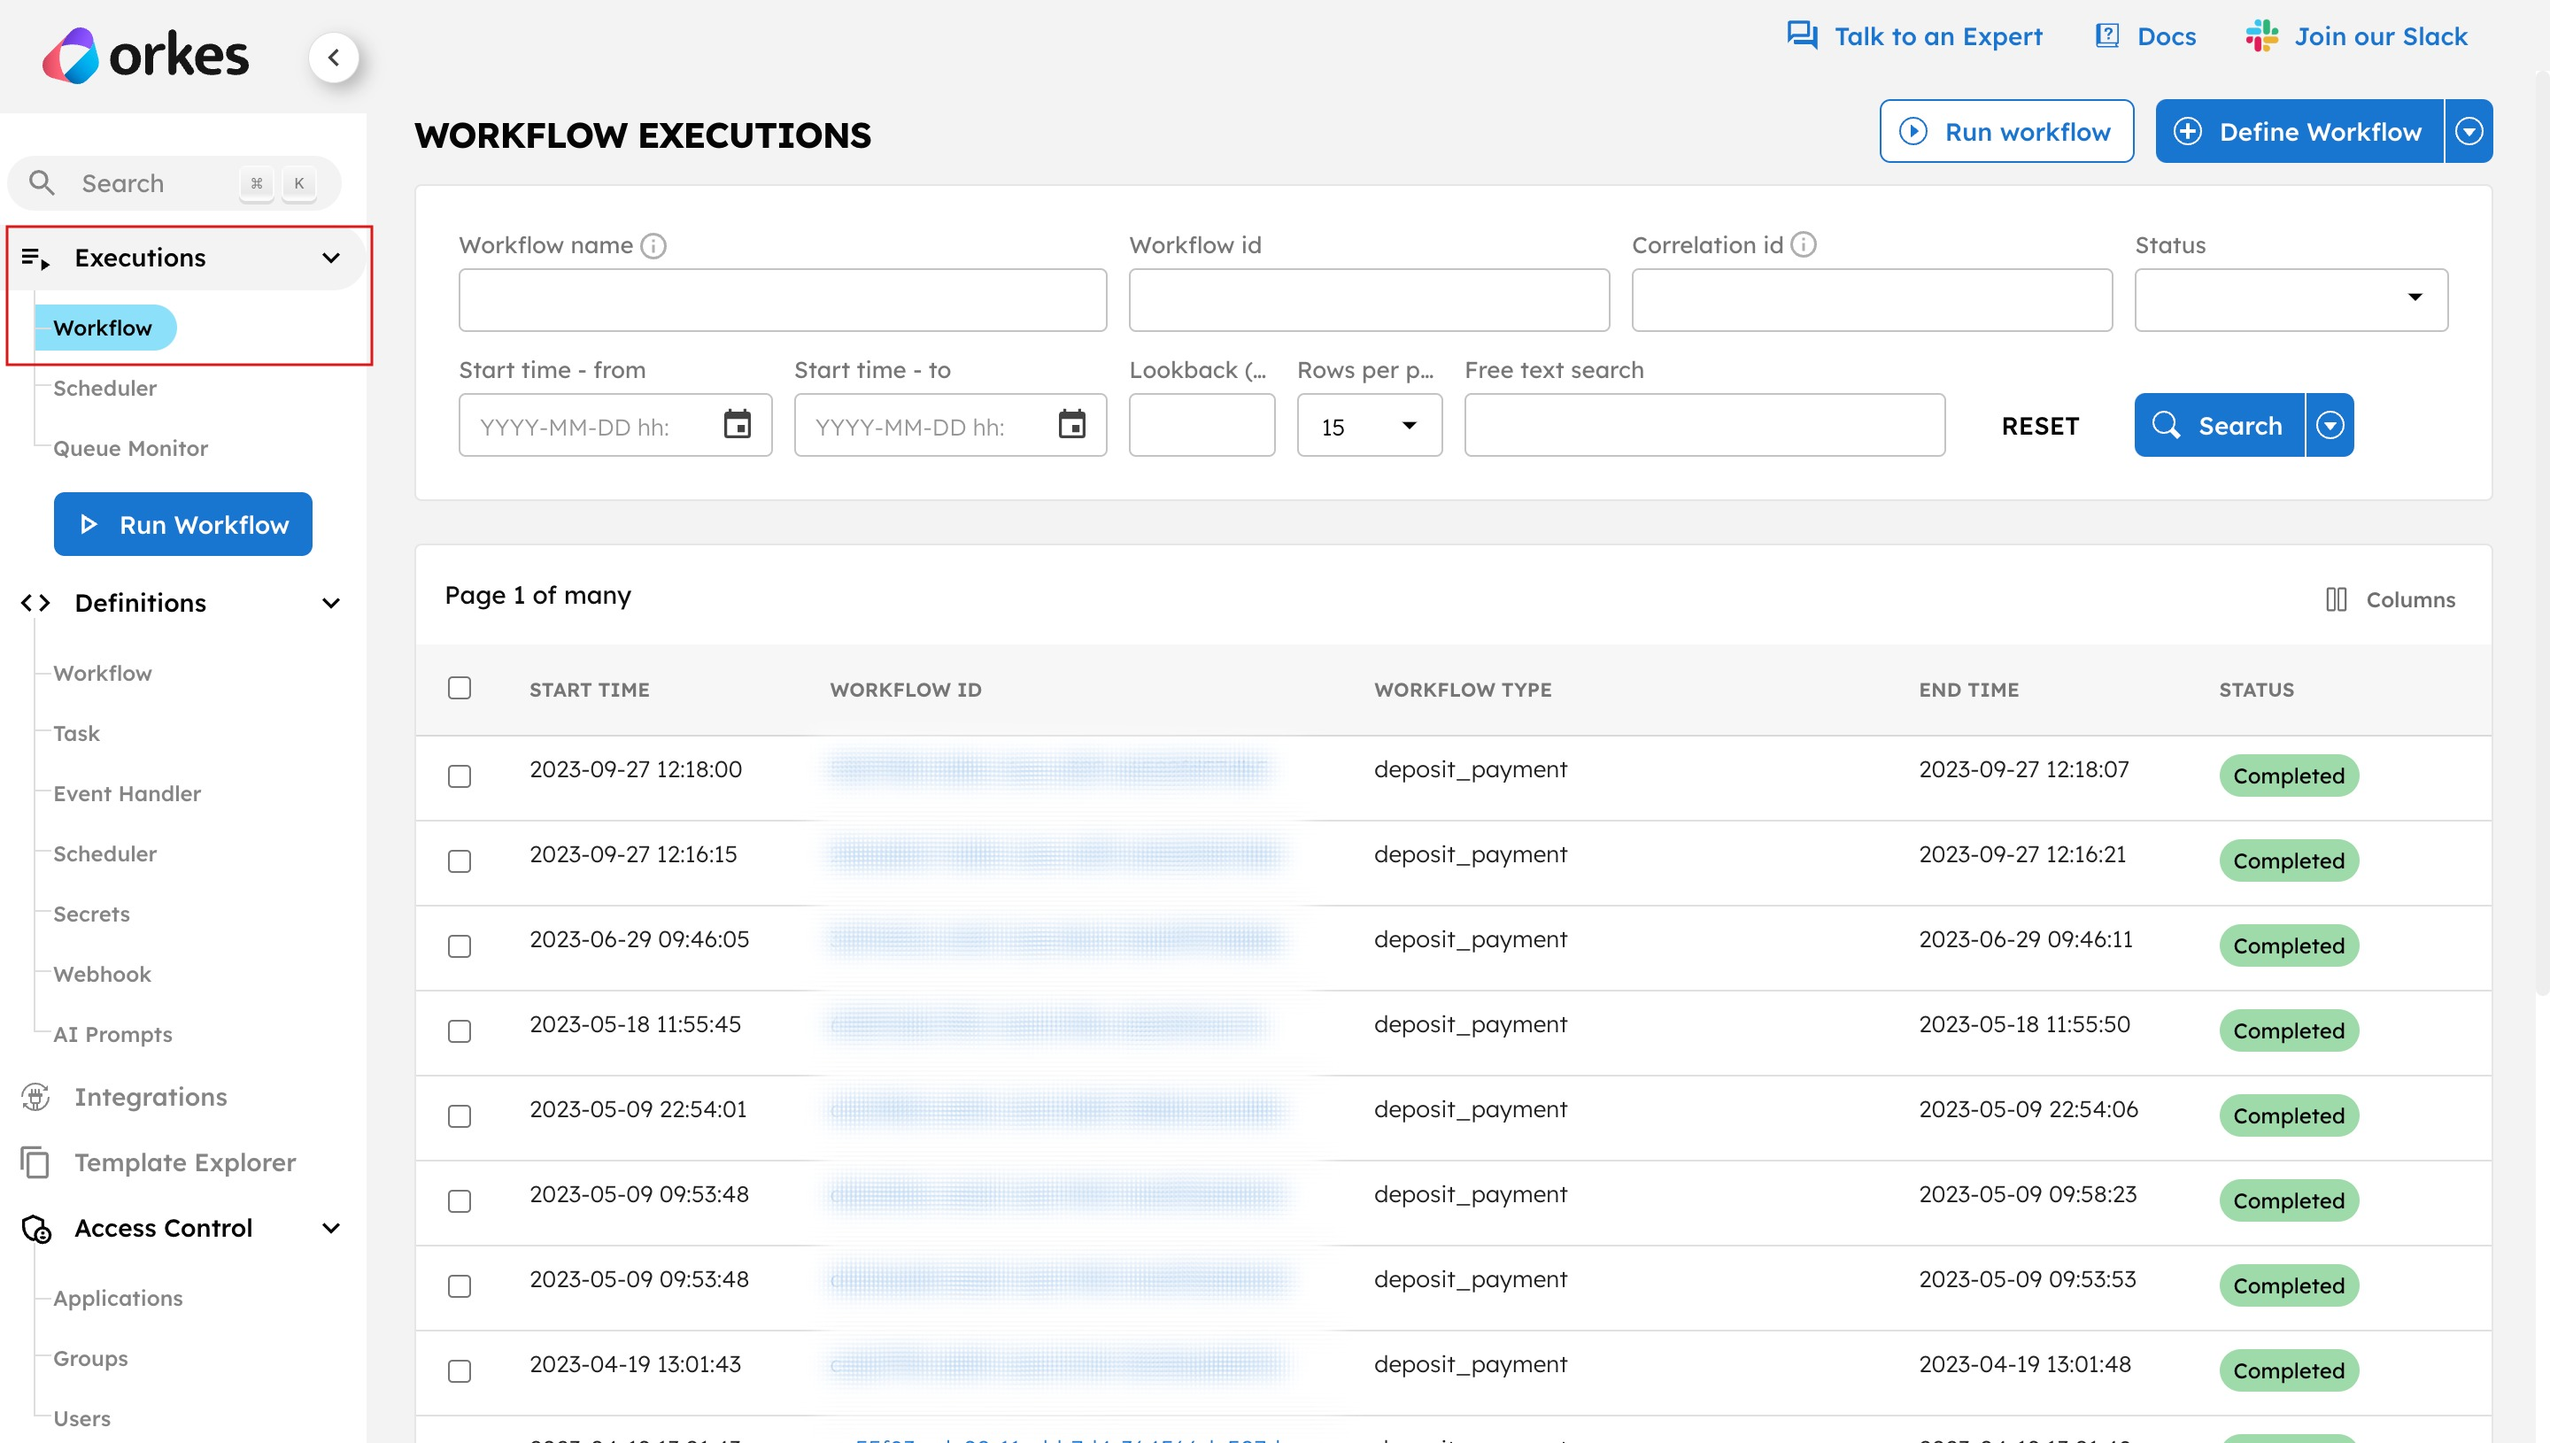
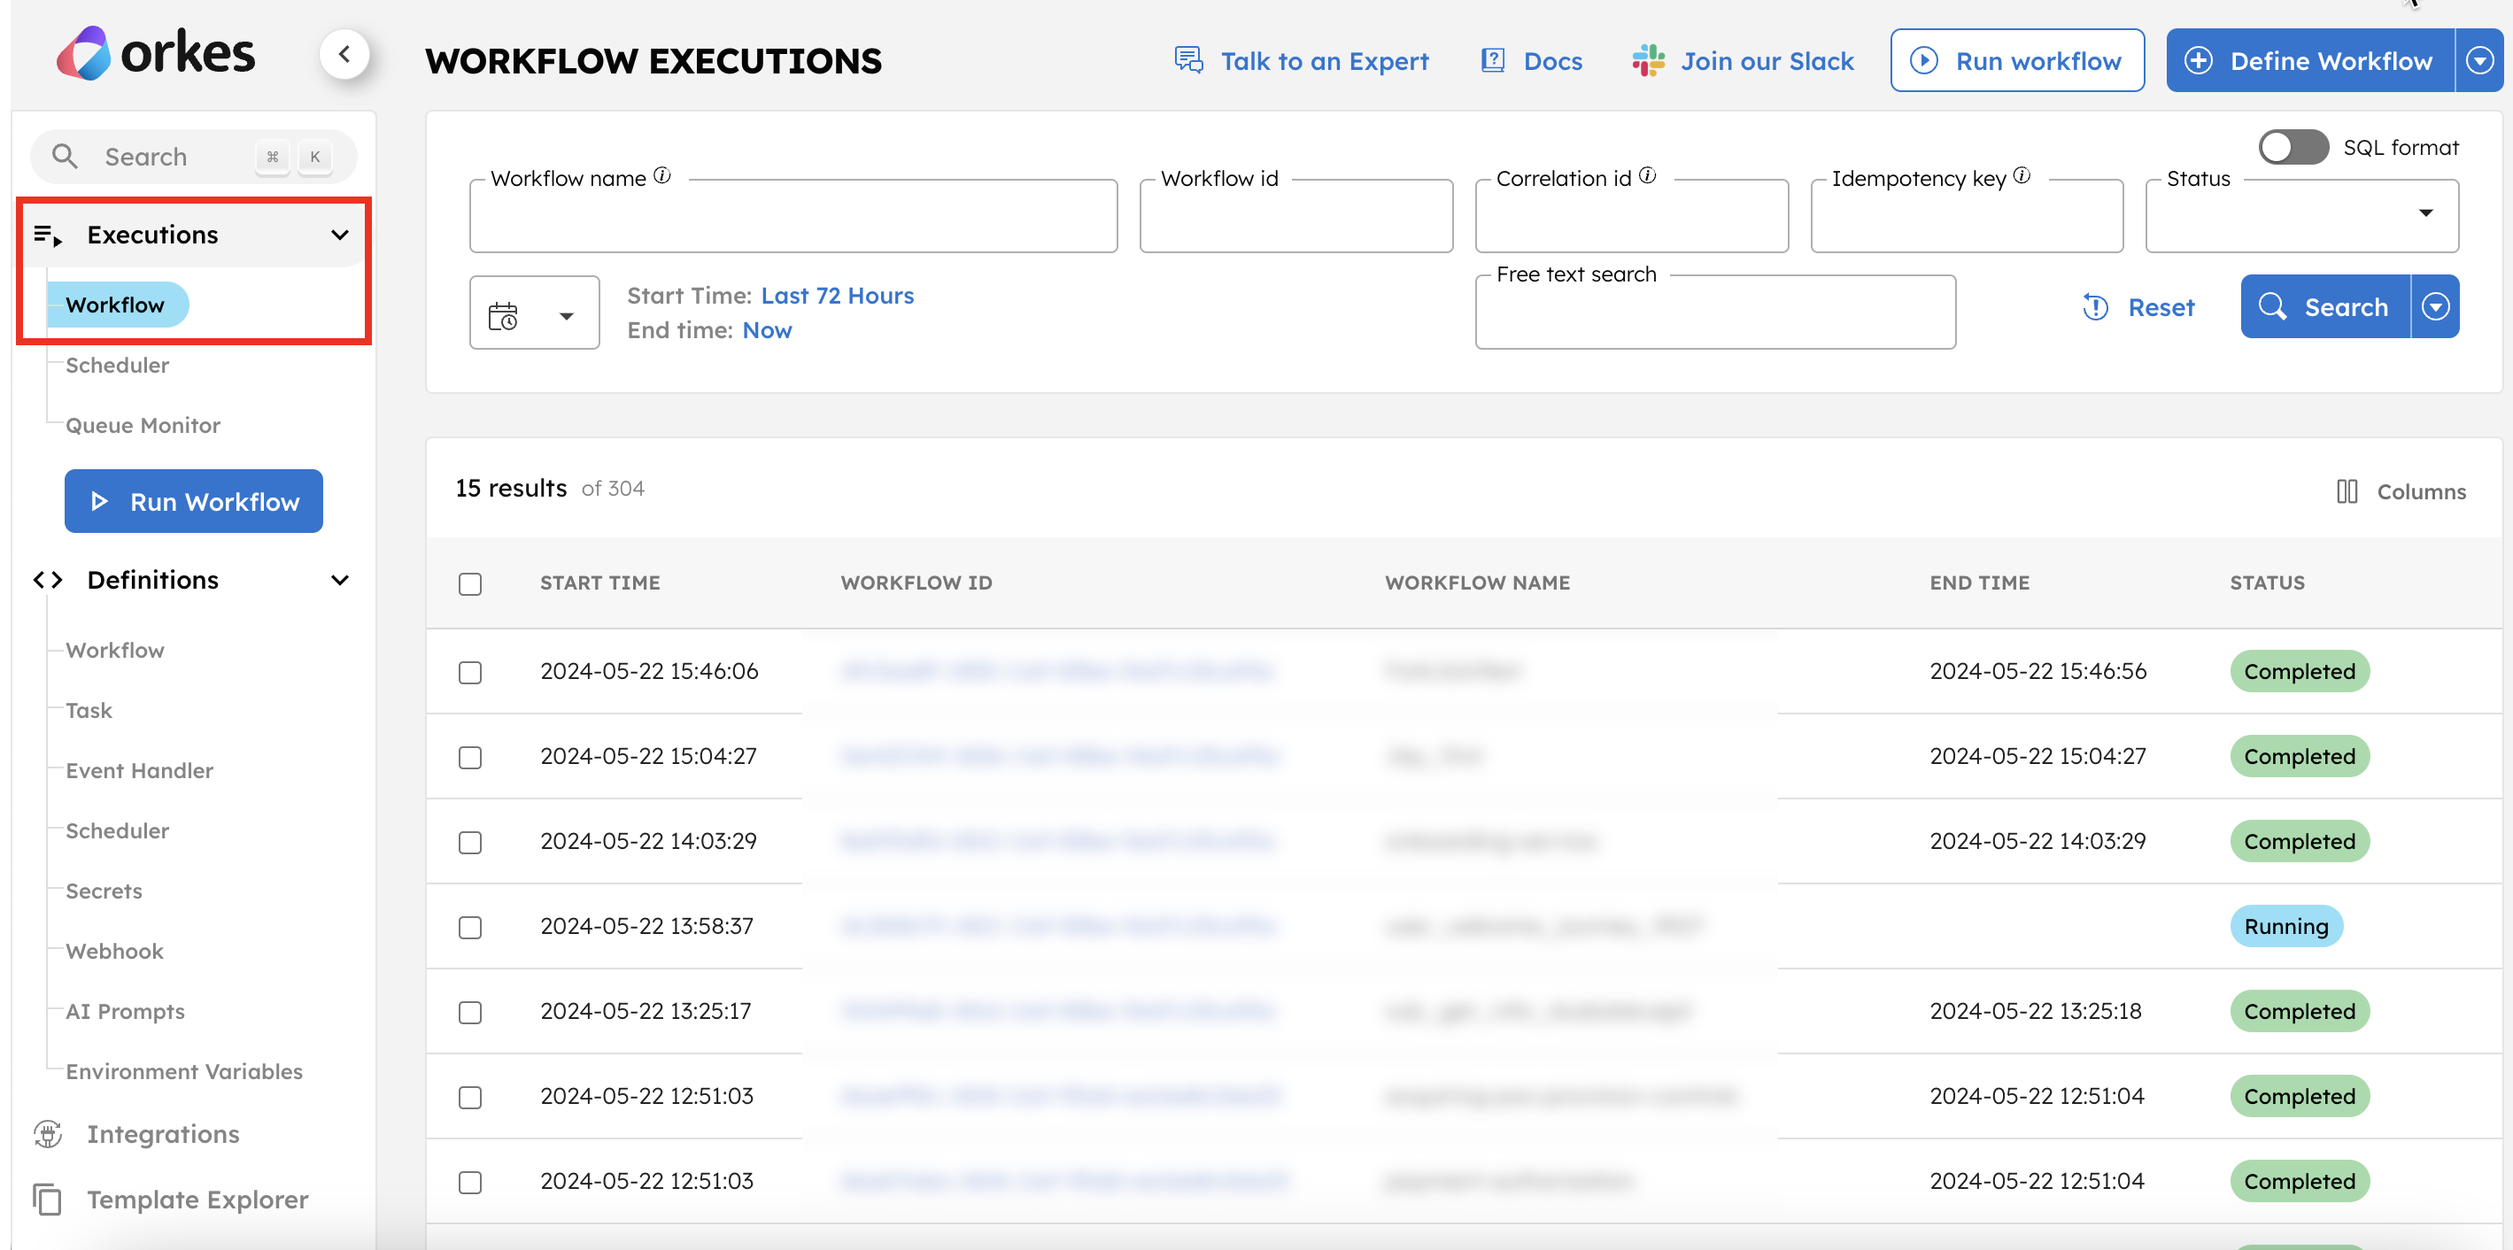
SC: 10973

diff --git a/docs/developer-guides/debugging-workflows.md b/docs/developer-guides/debugging-workflows.md
@@ -5,18 +5,18 @@ import Install from '@site/src/components/install.mdx';
 
 # Debugging Workflows
 
-Orkes Conductor provides a visual representation of workflows that aids in quickly troubleshooting issues. Conductor UI provides us with the ability to look into workflow executions which helps in quickly spotting and resolving issues.
+Orkes Conductor provides a visual representation of workflows that aids in quickly troubleshooting issues. Conductor UI provides you with the ability to look into workflow executions, which helps quickly spot and resolve issues.
 
 ## Searching/Viewing Workflow Executions
 
-All recent workflow executions are listed on the **Executions > Workflow** page. This view is filtered by the permissions of the user by default, i.e., users can view the execution of only the permitted workflows.
+All recent workflow executions are listed on the **Executions > Workflow** page. This view is filtered by the user's permissions by default, i.e., users can view the execution of only the permitted workflows.
 
 <p align="center"><img src="/content/img/workflow-executions.png" alt="Workflow Executions page" width="90%"
                        height="auto"/></p>
 
-Data on this page can be filtered by searching through workflow name, workflow ID, correlation ID, status, time period, and past days’ executions. Click on the required execution to view the individual execution of a workflow.
+The workflow execution data can be filtered by searching through workflow name, workflow ID, correlation ID, idempotency key, status, time period, and free text search. Click on the required execution to view the individual execution of a workflow.
 
-In addition, you can also view the workflow execution as code directly from the UI. For this, click on the arrow in the Search button, and choose “**Show as code**”.
+In addition, you can view the workflow execution as code directly from the UI. To do this, click the arrow in the Search button and choose “**Show as code”**.
 
 <p align="center"><img src="/content/img/show-as-code-in-workflow-search.png" alt="Show as code option in Workflow Search" width="90%"
                        height="auto"/></p>
@@ -27,7 +27,7 @@ This would show the workflow search data in different codes. Currently, you can 
                        height="auto"/></p>
 
 :::note
-You can also search for workflow names by inputting partial values with wildcards (*) support. For example, if you want to search for workflow names containing “test”, then search for **test***, and it will display all the workflow definitions with **‘test’** in their name.
+You can also search for workflow names by inputting partial values with wildcards (*) support. For example, if you want to search for workflow names containing “test”, then search for **test***, which will display all the workflow definitions with **‘test’** in their name.
 <p align="center"><img src="/content/img/workflow-partial-search.png" alt="Workflow search with wildcard support"
                        width="90%" height="auto"/></p>
 :::
@@ -41,7 +41,7 @@ The page consists of the following sub-tabs:
 
 * **Diagram** - Shows the visual representation of the workflow. If the workflow isn’t completed/failed, the diagram indicates the same.
 * **Task List** - Includes the details of the tasks within the workflow.
-* **Timeline** - A timeline showing the time taken by different tasks for execution.
+* **Timeline** -  A timeline showing the time taken by different tasks for execution. You can also zoom around the task timeline for more accuracy.
 * **Summary** - Includes the workflow details such as workflow ID, status, version, start/end time, and duration.
 * **Workflow Input/Output** - Shows the list of the inputs and outputs of the workflow.
 * **JSON** - Include the complete JSON of the workflow.
@@ -65,10 +65,10 @@ Clicking on the failed task gives the failure details. The following fields are 
 | -- | -- |
 | Summary > Reason for Incompletion | This field displays the reason for task incompletion. It can capture details such as exceptions thrown by the worker, task-related exceptions such as failed to invoke HTTP endpoints, etc. |
 | Summary > Worker | This field shows the worker instance that polled the task. It can help dig logs if not captured by the Conductor. |
-| Input | We can verify if the task inputs were computed and provided correctly. |
-| Output | We can verify the task’s output details here. If the task’s output is supplied as the next task’s input, such details can be verified from here. | 
-| Logs | We can get the logs from this tab if the task supplies logs. |
-| Attempt | If your task was retried, we can see all the attempts and corresponding details here. |
+| Input | You can verify if the task inputs were computed and provided correctly. |
+| Output | You can verify the task’s output details here. If the task’s output is supplied as the next task’s input, such details can be verified from here. | 
+| Logs | You can get the logs from this tab if the task supplies logs. |
+| Attempt | If your task was retried, you can see all the attempts and corresponding details here. |
 
 Here is a screen grab of the fields referred above.
 
@@ -76,18 +76,18 @@ Here is a screen grab of the fields referred above.
 
 ## Recovering From Failures
 
-Once the issues are resolved for the workflow execution failure, we might want to retry the failed workflows. The **Actions** button towards the top-right corner of the execution page provides the following options:
+Once the issues are resolved for the workflow execution failure, you might want to retry the failed workflows. The **Actions** button towards the top-right corner of the execution page provides the following options:
 
 <p align="center"><img src="/content/img/workflow-recovery.png" alt="Workflow Recovery Options" width="80%" height="auto"></img></p>
 
 | Action | Description                                                                                                                                                                                                                                                     |
 | ------ |-----------------------------------------------------------------------------------------------------------------------------------------------------------------------------------------------------------------------------------------------------------------|
 | Terminate | Terminates the workflow and changes the workflow status to **TERMINATED**.                                                                                                                                                                                      |
-| Restart with Current Definitions | Restart the workflow from the beginning using the same version of the workflow definition that originally ran this execution. This is useful if the workflow definition has changed and we want to retain this instance in the original version.                |
-| Restart with Latest Definitions | Restart this workflow from the beginning using the latest definition of the workflow. If we’ve made changes to the definition, we could use this option to re-run the flow with the latest version.                                                             |
+| Restart with Current Definitions | Restart the workflow from the beginning using the same version of the workflow definition that originally ran this execution. This is useful if the workflow definition has changed and you want to retain this instance in the original version.                |
+| Restart with Latest Definitions | Restart this workflow from the beginning using the latest definition of the workflow. If you've made changes to the definition, you could use this option to re-run the flow with the latest version.                                                             |
 | Retry - From failed task | Retries the workflow from the failed task.                                                                                                                                                                                                                      |
-| Re-run Workflow | Clicking on this takes us to the **Run Workflow** page, where we can rerun the workflow. While running, we can change the workflow input parameters and task to domain mapping.                     |                                      
+| Re-run Workflow | Clicking on this takes us to the **Run Workflow** page, where you can rerun the workflow. While running, you can change the workflow input parameters and task to domain mapping.                     |                                      
 
 :::tip
-Orkes Conductor has native retry and error handling capabilities, allowing your task to be retried automatically for transient failures. 
+Orkes Conductor has native [retry and error handling](https://orkes.io/content/error-handling) capabilities, allowing your task to be retried automatically for transient failures. 
 :::
